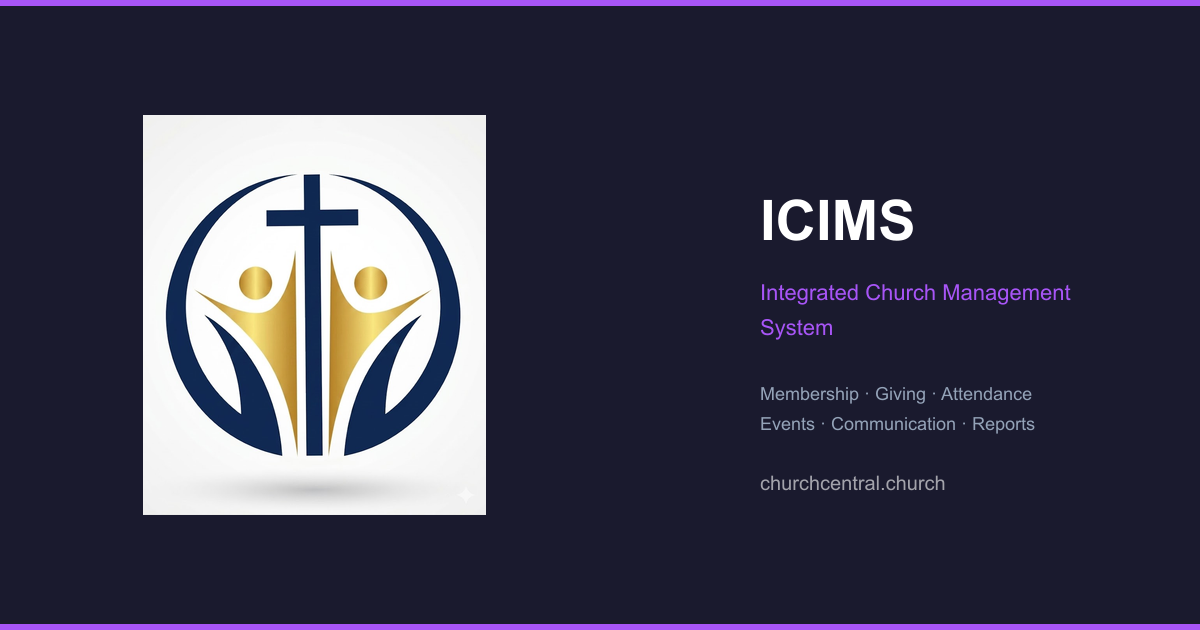
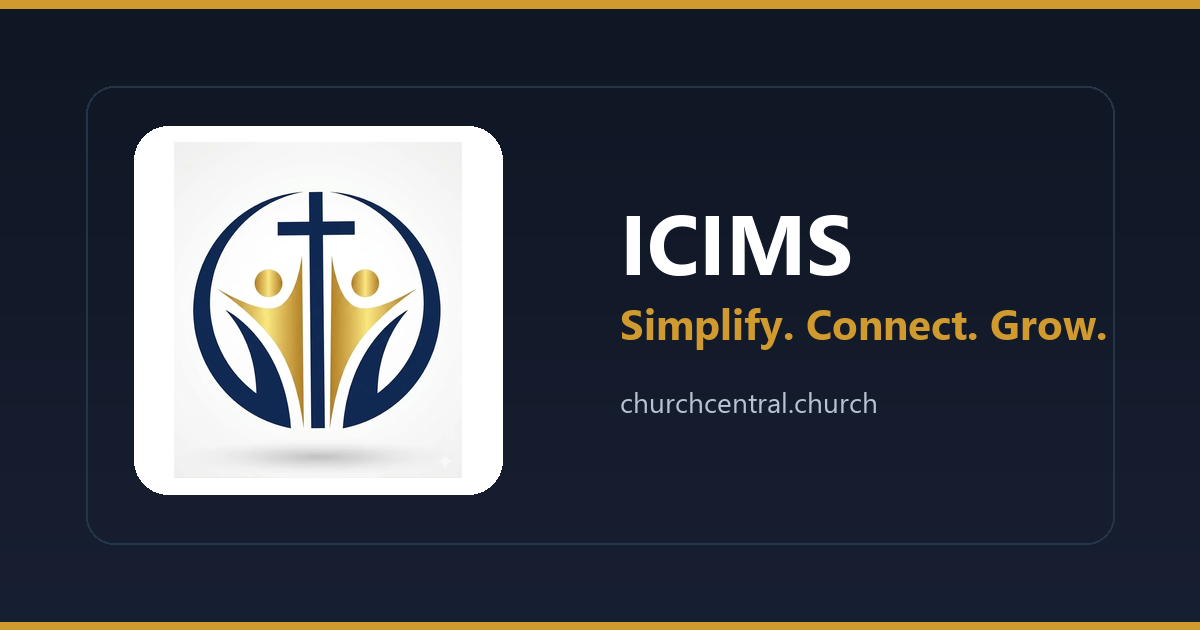
Use branded social preview image

diff --git a/index.html b/index.html
@@ -25,10 +25,10 @@
     <meta property="og:url" content="https://churchcentral.church/" />
     <meta property="og:title" content="ICIMS — Integrated Church Management System" />
     <meta property="og:description" content="12 integrated modules for complete church operations — membership, giving, attendance, events, communication and more." />
-    <meta property="og:image" content="https://media.aircnc.co.ke/media-images/892e33df-896f-4d54-b69b-9143cad6fa27.webp" />
+    <meta property="og:image" content="https://churchcentral.church/og-image.png" />
     <meta property="og:image:width" content="1200" />
     <meta property="og:image:height" content="630" />
-    <meta property="og:image:alt" content="ICIMS — Integrated Church Management System" />
+    <meta property="og:image:alt" content="ICIMS — Simplify. Connect. Grow." />
     <meta property="og:site_name" content="ICIMS" />
     <meta property="og:locale" content="en_US" />
 
@@ -37,11 +37,10 @@
     <meta name="twitter:url" content="https://churchcentral.church/" />
     <meta name="twitter:title" content="ICIMS — Integrated Church Management System" />
     <meta name="twitter:description" content="12 integrated modules for complete church operations. Affordable Packages , Full Controll." />
-    <meta name="twitter:image" content="https://media.aircnc.co.ke/media-images/892e33df-896f-4d54-b69b-9143cad6fa27.webp" />
-    <meta name="twitter:image:alt" content="ICIMS — Integrated Church Management System" />
+    <meta name="twitter:image" content="https://churchcentral.church/og-image.png" />
+    <meta name="twitter:image:alt" content="ICIMS — Simplify. Connect. Grow." />
 
         <!-- Preconnect to critical origins -->
-    <link rel="preconnect" href="https://media.aircnc.co.ke" crossorigin>
     <link rel="preconnect" href="https://api.churchcentral.church" crossorigin>
 
     <!-- Structured Data (JSON-LD) -->

diff --git a/src/pages/Features.tsx b/src/pages/Features.tsx
@@ -68,7 +68,6 @@ export default function FeaturesPage() {
     title: '20 Integrated Modules & Features',
     description: 'Explore all 20 ICIMS modules: membership, children and dependents, QR code attendance, giving, pledges, events, communication, public church websites, revenue management, performance KPIs and more.',
     canonical: 'https://churchcentral.church/features',
-    ogImage: 'https://media.aircnc.co.ke/media-images/20e847ba-fb2d-45f8-ad77-95b615ef85c8.webp',
   });
 
   return (

diff --git a/src/pages/Index.tsx b/src/pages/Index.tsx
@@ -89,7 +89,6 @@ export default function LandingPage() {
     title: 'The Complete Church Management Ecosystem',
     description: 'ICIMS is a cloud-based church management platform with integrated modules for membership, children and dependents, giving, attendance, events, communication and more.',
     canonical: 'https://churchcentral.church/',
-    ogImage: 'https://media.aircnc.co.ke/media-images/420984ab-7d48-40fc-b653-a09eb1428d14.webp',
   });
 
   return (

diff --git a/src/hooks/usePageMeta.ts b/src/hooks/usePageMeta.ts
@@ -8,7 +8,7 @@ interface PageMetaOptions {
 }
 
 
-export function usePageMeta({ title, description, canonical, ogImage = 'https://media.aircnc.co.ke/media-images/420984ab-7d48-40fc-b653-a09eb1428d14.webp' }: PageMetaOptions) {
+export function usePageMeta({ title, description, canonical, ogImage = 'https://churchcentral.church/og-image.png' }: PageMetaOptions) {
   useEffect(() => {
     const fullTitle = `${title} | ICIMS`;
 

diff --git a/src/pages/About.tsx b/src/pages/About.tsx
@@ -61,7 +61,6 @@ export default function AboutPage() {
     title: 'About ICIMS',
     description: 'Learn about ICIMS — the Integrated Church Management System. Our mission, vision, values and the story behind the platform.',
     canonical: 'https://churchcentral.church/about',
-    ogImage: 'https://media.aircnc.co.ke/media-images/420984ab-7d48-40fc-b653-a09eb1428d14.webp',
   });
 
   return (

diff --git a/src/pages/Contact.tsx b/src/pages/Contact.tsx
@@ -49,7 +49,6 @@ export default function ContactPage() {
     title: 'Contact Us',
     description: 'Get in touch with the ICIMS team. Reach our sales, support or technical departments.',
     canonical: 'https://churchcentral.church/contact',
-    ogImage: 'https://media.aircnc.co.ke/media-images/3e642cc8-1e30-4664-9b14-a782f63550f9.webp',
   });
 
   const [loading, setLoading] = useState(false);
